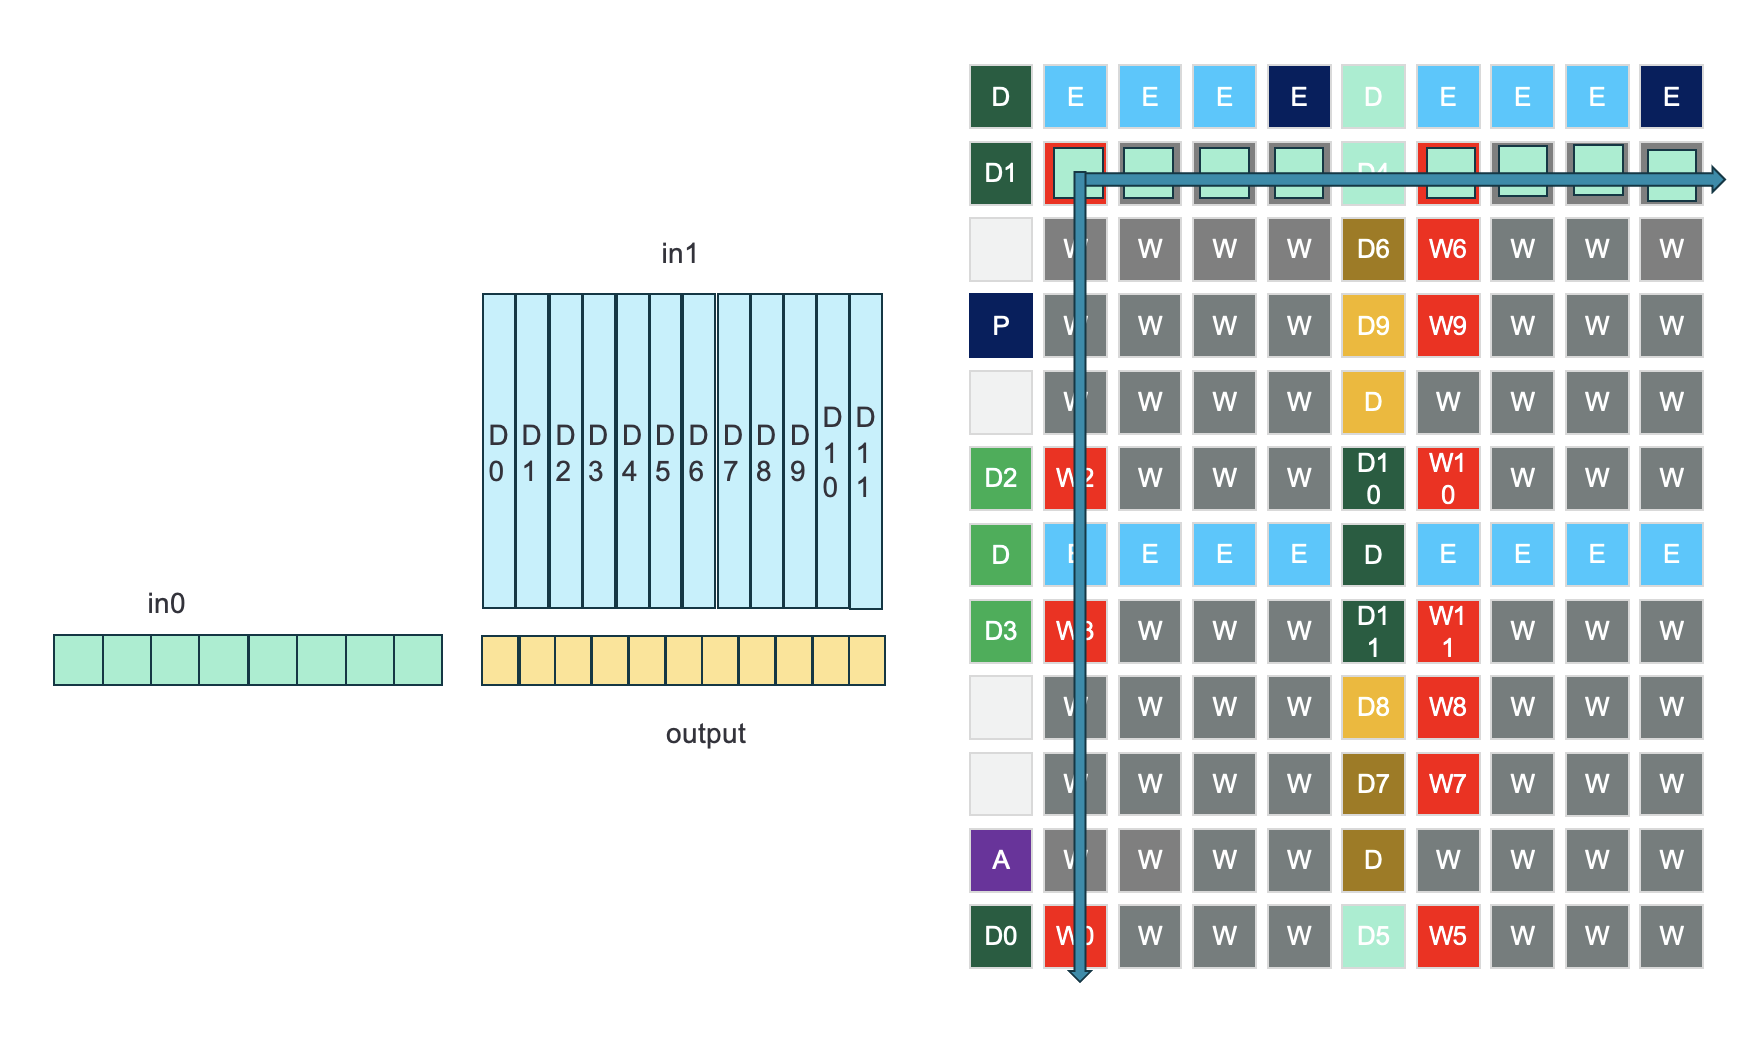
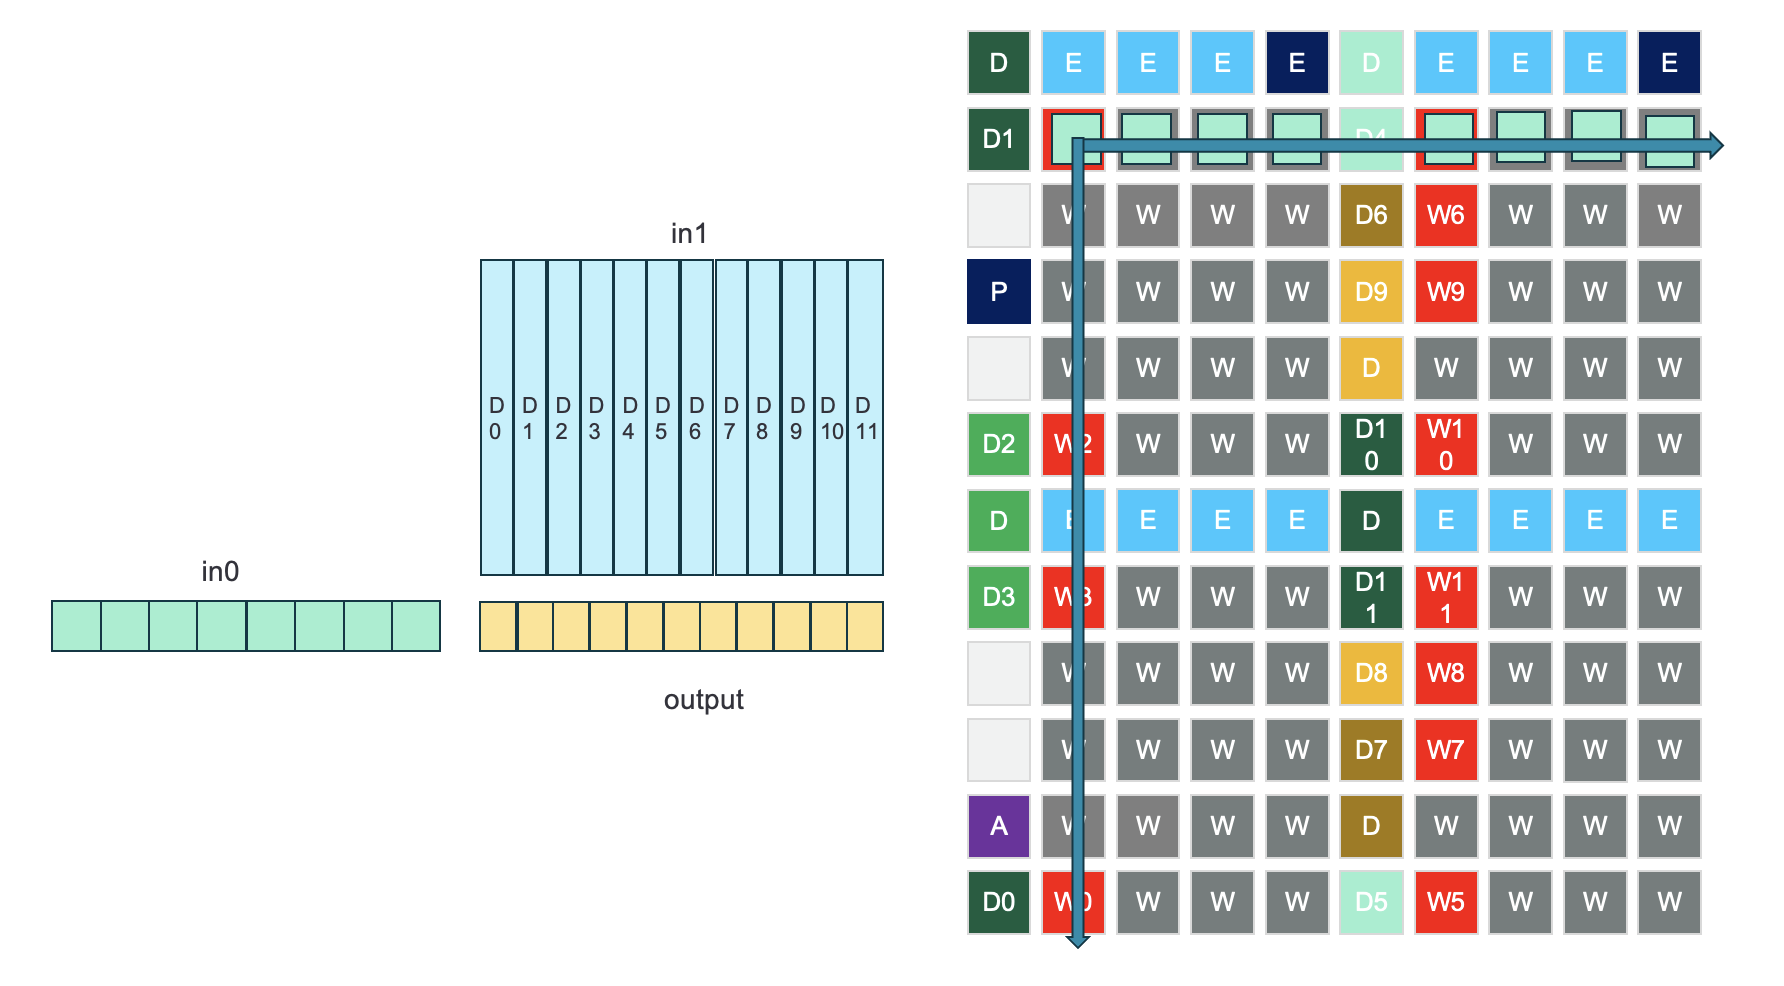
Yugao/doc (#12540)
* Update Saturating_DRAM_bandwidth.md

* Update Saturating_DRAM_bandwidth.md

* Add files via upload

Changed region(s): [[0.0308, 0.0304, 0.9852, 0.9736], [0.3694, 0.6998, 0.431, 0.7302]]

diff --git a/tech_reports/Saturating_DRAM_bandwidth/Saturating_DRAM_bandwidth.md b/tech_reports/Saturating_DRAM_bandwidth/Saturating_DRAM_bandwidth.md
@@ -23,7 +23,7 @@ The single-core test shows we can achieve the desired bandwidth for an individua
 
 To saturate all the DRAM banks, there needs to be one DRAM reader per bank, and each reader can only access its assigned bank, otherwise serving multiple readers per bank would cause serious NoC congestion.
 
-Previous experiment shows that we cannot saturate DRAM bandwidth when placing the DRAM reader cores on either top/bottom rows or left/right columns of the worker grid, as NoC congestions start appearing when the DRAM routes for each bank overlap with each other. For example, as shown in the diagram, there are 12 readers are placed on the top two rows, each accessing one bank in the Wormhole architecture. We choose NoC 0 as the routing fabric, which has the following routing strategy: first, send to the right NoC, then send to the downward NoC. The routes for DRAM bank 2 and bank 10 are overlapped and cause congestion over NoC traffic.
+Previous experiment shows that we cannot saturate DRAM bandwidth when placing the DRAM reader cores on either top/bottom rows or left/right columns of the worker grid, as NoC congestions start appearing when the DRAM routes for each bank overlap with each other. For example, as shown in the diagram, there are 12 readers are placed on the top two rows, each accessing one bank in the Wormhole architecture. We choose NoC 0 as the routing fabric, which has the following routing strategy: first, send to the right NoC, then send to the downward NoC. The DRAM banks are labeled as D0, D1, etc. The routes for DRAM bank 2 and bank 10 are overlapped and cause congestion over NoC traffic.
 
 <!-- ![image2](images/image2.png){width=10 height=10} -->
 <img src="images/image2.png" style="width:400px;"/>
@@ -51,7 +51,7 @@ Most of the OPs use interleaved tensor layout when storing tensors in DRAM, mean
 
 To mitigate the NoC congestion, we need to shard the tensor into DRAM banks, so that each DRAM reader reads only its own tensor partition from its assigned bank. One use case is matmul with 1d sharded input tensors. When in0 has small height and large width (ex, 32x1024) and in1 has large width (ex, 1024x8192), it becomes DRAM bound and we can use the same DRAM reader placement and optimization strategy mentioned earlier. 
 
-Take Wormhole as an example, in0 is width sharded to the top rows on the grid, and in1 is width sharded into 12 DRAM banks. There are 12 DRAM readers, each reads a shard from its own DRAM bank. The compute kernels are placed on the same coordinate as the DRAM reader. To get in0 sharded tensor from the top rows, we need to multicast the in0 shards to all worker cores, as this is the only way to multicast data to the compute cores without sending the shards to one compute core one by one. In0 and in1 shards are also double buffered, to overlap the data movement with computation.
+Take Wormhole as an example, in0 is width sharded to the top rows on the grid, and in1 is width sharded into 12 DRAM banks. As shown in the diagram on the left, tensor shard D0 is sharded into DRAM bank 0, D1 is sharded into bank 1, etc. There are 12 DRAM readers, each reads a shard from its own DRAM bank. The compute kernels are placed on the same coordinate as the DRAM reader. To get in0 sharded tensor from the top rows, we need to multicast the in0 shards to all worker cores, as this is the only way to multicast data to the compute cores without sending the shards to one compute core one by one. In0 and in1 shards are also double buffered, to overlap the data movement with computation.
 
 After computation on the output shard is done, the output shards are sent back to the top rows, as our current sharding strategy assumes the tensor shards to be allocated contiguously. 
 
